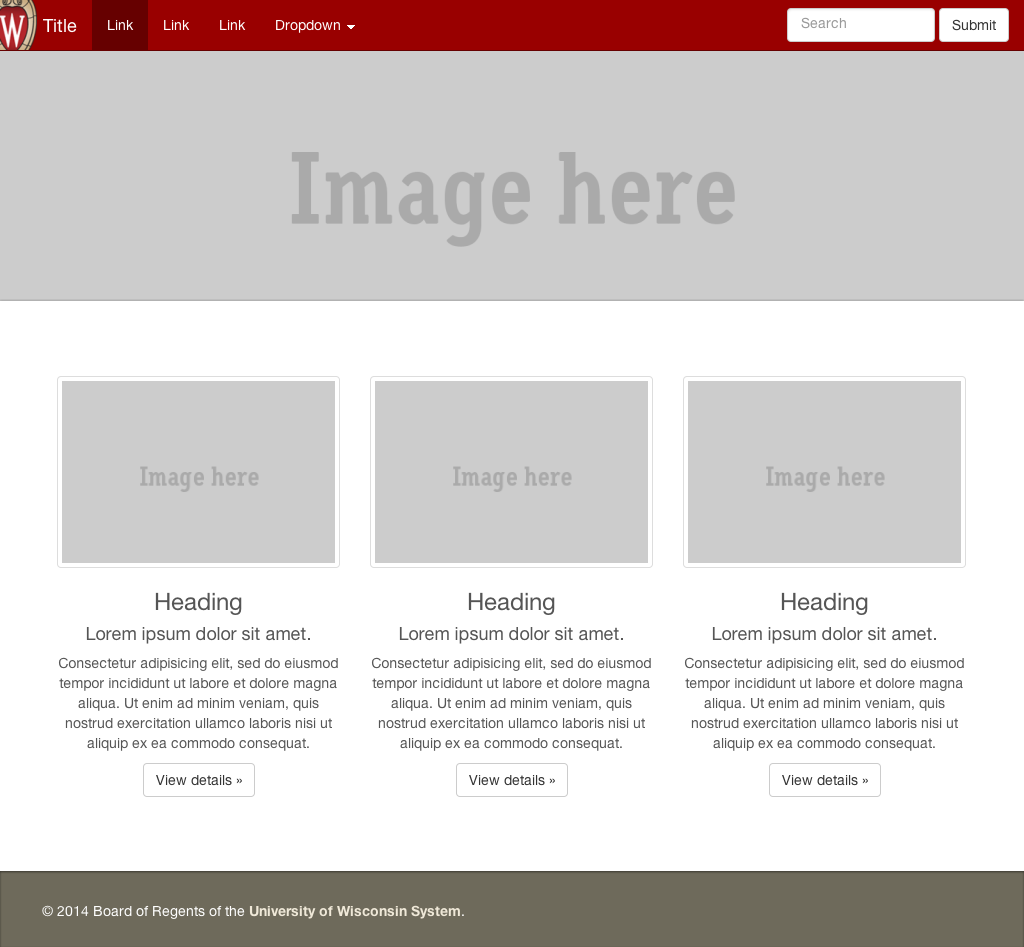
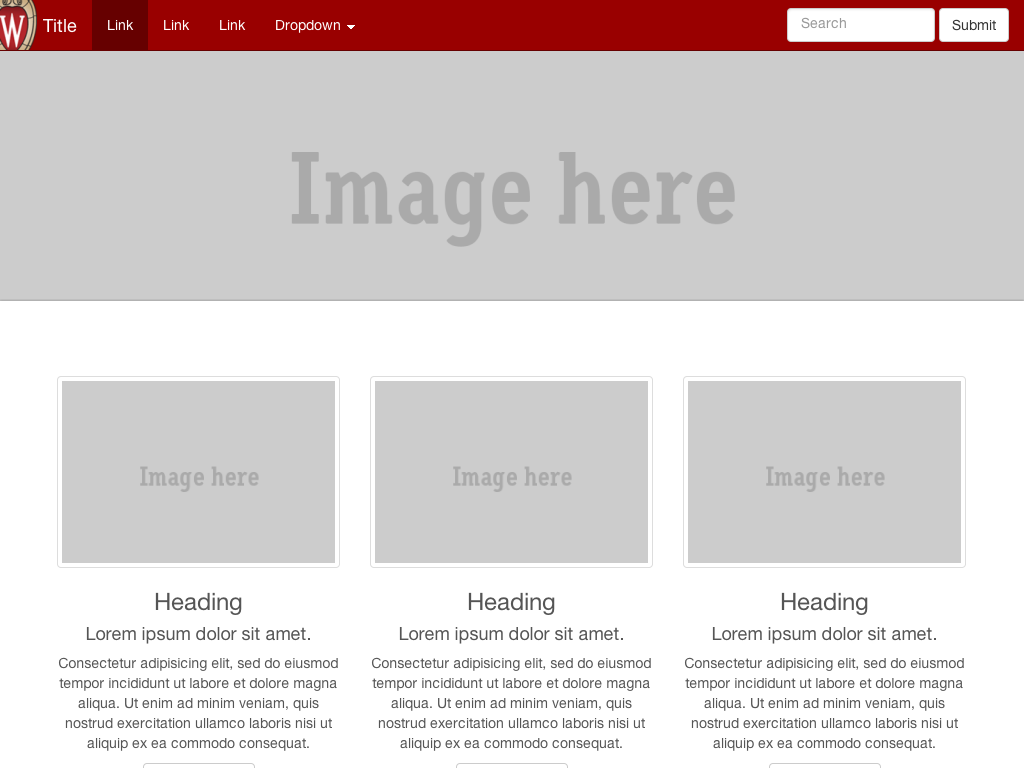
cropped autoshot files

diff --git a/Gruntfile.js b/Gruntfile.js
@@ -177,7 +177,8 @@ module.exports = function(grunt){
           remote: {
             files: []
           },
-          viewport: ['1024x768']
+          viewport: ['1024x768'],
+          crop: true
         }
       }
     },
